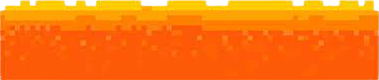
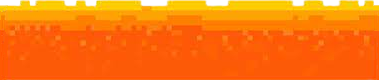
lava tiling and camera moves up

diff --git a/Sinkhole Sprinter/Sinkhole Sprinter/Sinkhole_Sprinter/Game1.cs b/Sinkhole Sprinter/Sinkhole Sprinter/Sinkhole_Sprinter/Game1.cs
@@ -78,7 +78,11 @@ namespace Sinkhole_Sprinter
 
         // lava and fire
         Texture2D Lava, firesheet, exclamation;
-        Lava lava;
+        Rectangle lavaSize;
+        float lavaHeight;
+        const float LAVA_RISE_SPEED = .4f;
+        List<Lava> lavas;
+        const int LAVA_HEIGHT_SHOWN = 200;
 
 
         public Game1()
@@ -121,8 +125,11 @@ namespace Sinkhole_Sprinter
             IsMouseVisible = true;
             currentState = Gamestate.title;
             platforms = new List<Platform>();
+            lavas = new List<Lava>();
+            lavaSize = new Rectangle(0, 0, 1500, 300);
             oldKb = Keyboard.GetState();
             highScores = new List<int>();
+
 
             deathScreenText = new Rectangle[5];
             base.Initialize();
@@ -151,8 +158,8 @@ namespace Sinkhole_Sprinter
             scoreFont = Content.Load<SpriteFont>("ScoreFont");
             titleRect = new Rectangle((int)(GraphicsDevice.Viewport.Width / 2 - (titleFont.MeasureString(titleScreenText[0]).Length() / 2)), 200, 30, 30);
             multiplayerTextRect = new Rectangle((int)(GraphicsDevice.Viewport.Width / 2 - (titleFont.MeasureString(titleScreenText[1]).Length() / 2)), 300, 30, 30);
-            deathScreenText[0] = new Rectangle((int)(GraphicsDevice.Viewport.Width / 2 - (titleFont.MeasureString("play again").Length() / 2)), 250, 30, 30);
-            deathScreenText[1] = new Rectangle((int)(GraphicsDevice.Viewport.Width / 2 - (titleFont.MeasureString("main menu").Length() / 2)), 350, 30, 30);
+            deathScreenText[0] = new Rectangle((int)(GraphicsDevice.Viewport.Width / 2 - (titleFont.MeasureString(gameoverScreenText[0]).Length() / 2)), 250, 30, 30);
+            deathScreenText[1] = new Rectangle((int)(GraphicsDevice.Viewport.Width / 2 - (titleFont.MeasureString(gameoverScreenText[1]).Length() / 2)), 350, 30, 30);
 
             testFont = Content.Load<SpriteFont>("SpriteFont3");
 
@@ -161,7 +168,7 @@ namespace Sinkhole_Sprinter
 
             firesheet = this.Content.Load<Texture2D>("Fire");
             Lava = this.Content.Load<Texture2D>("Lava");
-            lava = new Lava(new Rectangle(600, 700, 1500, 300), Lava);
+            
             exclamation = this.Content.Load<Texture2D>("exclamation");
 
         }
@@ -237,21 +244,29 @@ namespace Sinkhole_Sprinter
 
                     player.Update();
                     camera.Update();
-                    lava.Update();
+                    lavaHeight -= LAVA_RISE_SPEED;
+                    tileLava();
+                    foreach (Lava lava in lavas)
+                    {
+                        lava.position.Y = lavaHeight + lavaSize.Height / 2;
+                    }
+                    
                     if (LastPlatform.position.X < camera.boundingRectangle.Right)
                     {
                         createPlatform();
                     }
+                    if (platforms[0].Top - PLATFORM_MIN_HEIGHT > lavaHeight)
+                        platforms.RemoveAt(0);
+
                     camera.position.X = Math.Max(player.position.X, camera.boundingRectangle.Width / 2);
-                    camera.position.Y = Math.Min(player.position.Y, camera.boundingRectangle.Height / 2);
-                    if (player.position.Y >= lava.Top) // checks if player is dead
+                    camera.position.Y = Math.Min(Math.Min(player.position.Y, camera.boundingRectangle.Height / 2), lavas[0].Top + LAVA_HEIGHT_SHOWN - camera.boundingRectangle.Height / 2);
+                    if (player.position.Y >= lavas[0].Top) // checks if player is dead
                     {
                         onDeath();
                     }
-                    camera.position.Y = Math.Min(player.position.Y, camera.boundingRectangle.Height / 2); // Add lava to minimum
 
                     // TODO: Change to tiling system
-                    lava.position.X = camera.position.X;
+                    //lava.position.X = camera.position.X;
 
                     // Update stats
                     maxHeight = Math.Max(STARTING_PLATFORM_HEIGHT - Platform.HEIGHT / 2 - player.Bottom, maxHeight);
@@ -269,7 +284,7 @@ namespace Sinkhole_Sprinter
                         startGame();
                     }
                     if (mouse.X > deathScreenText[0].X &&
-                        mouse.X < deathScreenText[0].X + (("play again".Length - 1) * 20) && mouse.Y > deathScreenText[0].Y + 10 &&    mouse.Y < deathScreenText[0].Y + deathScreenText[0].Height)
+                        mouse.X < deathScreenText[0].X + ((gameoverScreenText[0].Length - 1) * 20) && mouse.Y > deathScreenText[0].Y + 10 &&    mouse.Y < deathScreenText[0].Y + deathScreenText[0].Height)
                     {
                         deathScreenColors[0] = Color.Gold;
                         if (mouse.LeftButton == ButtonState.Pressed && oldMouse.LeftButton == ButtonState.Released)
@@ -279,7 +294,7 @@ namespace Sinkhole_Sprinter
                     }
                     else
                         deathScreenColors[0] = Color.Black;
-                    if (mouse.X > deathScreenText[1].X && mouse.X < deathScreenText[1].X + (("main menu".Length - 1) * 20) && mouse.Y > deathScreenText[1].Y + 10 && mouse.Y < deathScreenText[1].Y + deathScreenText[1].Height)
+                    if (mouse.X > deathScreenText[1].X && mouse.X < deathScreenText[1].X + ((gameoverScreenText[1].Length - 1) * 20) && mouse.Y > deathScreenText[1].Y + 10 && mouse.Y < deathScreenText[1].Y + deathScreenText[1].Height)
                     {
                         deathScreenColors[1] = Color.Gold;
                         if (mouse.LeftButton == ButtonState.Pressed && oldMouse.LeftButton == ButtonState.Released)
@@ -304,11 +319,26 @@ namespace Sinkhole_Sprinter
             currentState = Gamestate.play;
             createPlatform(new Vector2(Platform.WIDTH / 2, STARTING_PLATFORM_HEIGHT));
             player = new Player(new Rectangle(50, STARTING_PLATFORM_HEIGHT - Platform.HEIGHT / 2 - 38, 75, 75), textures, running, jumping, standing);
-            lava = new Lava(new Rectangle(600, 700, 1500, 300), Lava);
+            lavas.Clear();
+            lavaHeight = GraphicsDevice.Viewport.Height;
+            lavas.Add(new Lava(new Rectangle(lavaSize.Width / 2, (int)lavaHeight + 150, lavaSize.Width, lavaSize.Height), Lava));
             maxHeight = 0;
             distance = 0;
             points = 0;
             timer = 0;
+        }
+
+        private void tileLava()
+        {
+            if (lavas[0].Right + lavaSize.Width < camera.boundingRectangle.Left)
+                lavas.RemoveAt(0);
+            else
+                lavas.Insert(0, new Lava(new Rectangle((int)lavas[0].position.X + lavaSize.Width, (int)lavas[0].position.Y, lavaSize.Width, lavaSize.Height), Lava));
+
+            if (lavas[lavas.Count - 1].Left - lavaSize.Width > camera.boundingRectangle.Right)
+                lavas.RemoveAt(lavas.Count - 1);
+            else
+                lavas.Add(new Lava(new Rectangle((int)lavas[0].position.X + lavaSize.Width, (int)lavas[0].position.Y, lavaSize.Width, lavaSize.Height), Lava));
         }
 
         // Ran when the player dies
@@ -328,7 +358,7 @@ namespace Sinkhole_Sprinter
             int avgGain = PLATFORM_HEIGHT_GAIN + (int)(PLATFORM_EXTRA_HEIGHT_GAIN * Math.Pow(.5, LastPlatform.position.X / PLATFORM_DIFFICULTY_DISTANCE));
             int dHeight = r.Next(-(avgGain + PLATFORM_HEIGHT_VARIANCE), -(avgGain - PLATFORM_HEIGHT_VARIANCE));
             Vector2 position = new Vector2();
-            position.Y = Math.Min(LastPlatform.position.Y + dHeight, lava.Top - PLATFORM_MIN_HEIGHT);
+            position.Y = Math.Min(LastPlatform.position.Y + dHeight, lavas[0].Top - PLATFORM_MIN_HEIGHT);
 
             // Fraction of the max jump distance based on difficulty (max distance)
             float reverseDistanceModifier = (float)(PLATFORM_MIN_WIGGLE_ROOM + PLATFORM_BONUS_WIGGLE_ROOM * Math.Pow(.5, LastPlatform.position.X / PLATFORM_DIFFICULTY_DISTANCE));
@@ -354,8 +384,8 @@ namespace Sinkhole_Sprinter
             {
                 case Gamestate.title:
                     spriteBatch.DrawString(titleTextFont, "SINKHOLE SPRINTER", new Vector2(GraphicsDevice.Viewport.Width / 2  - (titleTextFont.MeasureString("SINKHOLE SPRINTER").Length() / 2), 50), Color.Black);
-                    spriteBatch.DrawString(titleFont, "single player", new Vector2(GraphicsDevice.Viewport.Width / 2 - (titleFont.MeasureString("single player").Length() / 2), 200), titleScreenColors[0]);
-                    spriteBatch.DrawString(titleFont, "multiplayer", new Vector2(GraphicsDevice.Viewport.Width / 2 - (titleFont.MeasureString("multiplayer").Length() / 2), 300), titleScreenColors[1]);
+                    spriteBatch.DrawString(titleFont, titleScreenText[0], new Vector2(GraphicsDevice.Viewport.Width / 2 - (titleFont.MeasureString(titleScreenText[0]).Length() / 2), 200), titleScreenColors[0]);
+                    spriteBatch.DrawString(titleFont, titleScreenText[1], new Vector2(GraphicsDevice.Viewport.Width / 2 - (titleFont.MeasureString(titleScreenText[1]).Length() / 2), 300), titleScreenColors[1]);
                     spriteBatch.DrawString(titleFont, "high scores", new Vector2(GraphicsDevice.Viewport.Width / 2 - (titleFont.MeasureString("high scores").Length() / 2), 400), titleScreenColors[2]);
 
 
@@ -363,13 +393,14 @@ namespace Sinkhole_Sprinter
 
                     break;
                 case Gamestate.play:
-                    spriteBatch.Draw(placeholder, new Rectangle(0, lava.rect.Bottom - 5, 1500, Math.Max(GraphicsDevice.Viewport.Height - lava.rect.Bottom + 5, 0)), new Color(255, 79, 9));
-                    camera.Draw(gameTime,spriteBatch,lava);
+                    // spriteBatch.Draw(placeholder, new Rectangle(0, lavas[0].rect.Bottom - 5, 1500, Math.Max(GraphicsDevice.Viewport.Height - lavas[0].rect.Bottom + 5, 0)), new Color(255, 79, 9));
                     foreach (Platform platform in platforms)
                     {
                         camera.Draw(gameTime, spriteBatch, platform);
                     }
                     camera.DrawPlayer(gameTime, spriteBatch, player);
+                    foreach (Lava lava in lavas)
+                        camera.Draw(gameTime, spriteBatch, lava);
                     spriteBatch.Draw(placeholder, new Rectangle(00, 0, GraphicsDevice.Viewport.Width, 25), Color.Black);
                     spriteBatch.DrawString(scoreFont, "score: " + score, new Vector2(0, 00), Color.White); // points distance max height
                     spriteBatch.DrawString(scoreFont, "points: " + points, new Vector2(GraphicsDevice.Viewport.Width / 2 -  (scoreFont.MeasureString("points: " + points).Length() / 2), 00), Color.White);
@@ -378,8 +409,8 @@ namespace Sinkhole_Sprinter
                     
                 case Gamestate.gameover:
                     spriteBatch.DrawString(titleTextFont, "you died", new Vector2(GraphicsDevice.Viewport.Width / 2 - (titleTextFont.MeasureString("you died").Length() / 2), 50), Color.DarkRed);
-                    spriteBatch.DrawString(titleFont, "play again", new Vector2(GraphicsDevice.Viewport.Width / 2 - (titleFont.MeasureString("play again").Length() / 2), 250), deathScreenColors[0]);
-                    spriteBatch.DrawString(titleFont, "main menu", new Vector2(GraphicsDevice.Viewport.Width / 2 - (titleFont.MeasureString("main menu").Length() / 2), 350), deathScreenColors[1]);
+                    spriteBatch.DrawString(titleFont, gameoverScreenText[0], new Vector2(GraphicsDevice.Viewport.Width / 2 - (titleFont.MeasureString(gameoverScreenText[0]).Length() / 2), 250), deathScreenColors[0]);
+                    spriteBatch.DrawString(titleFont, gameoverScreenText[1], new Vector2(GraphicsDevice.Viewport.Width / 2 - (titleFont.MeasureString(gameoverScreenText[1]).Length() / 2), 350), deathScreenColors[1]);
                     spriteBatch.DrawString(titleFont, "press r to play again", new Vector2(GraphicsDevice.Viewport.Width / 2 - (titleFont.MeasureString("press r to play again").Length() / 2), 450), Color.Gold);
                     break;
             }

diff --git a/Sinkhole Sprinter/Sinkhole Sprinter/Sinkhole_Sprinter/Player.cs b/Sinkhole Sprinter/Sinkhole Sprinter/Sinkhole_Sprinter/Player.cs
@@ -25,6 +25,7 @@ namespace Sinkhole_Sprinter
         public Rectangle currentsource;
         // If player is moving
         public movement playerState;
+        public direction moveDirection;
         // Frame of animation
         private int currentInt;
         // Timer for animation
@@ -41,8 +42,13 @@ namespace Sinkhole_Sprinter
         public enum movement
         {
             idle,
-            left,
-            right
+            running,
+            jumping
+        }
+
+        public enum direction
+        {
+            left, right
         }
 
         
@@ -54,6 +60,7 @@ namespace Sinkhole_Sprinter
             currentsource = st[0];
             standing = st;
             playerState = movement.idle;
+            moveDirection = direction.right;
             currentInt = 0;
             canJump = true;
             timer = 0;
@@ -71,7 +78,8 @@ namespace Sinkhole_Sprinter
             currentsource = st[0];
             standing = st;
             // playerState = movement.idle;
-            playerState = movement.right;
+            playerState = movement.idle;
+            moveDirection = direction.right;
             currentInt = 0;
             canJump = true;
             timer = 0;
@@ -106,7 +114,8 @@ namespace Sinkhole_Sprinter
 
                     currentsource = running[currentInt];
                 }
-                playerState = movement.left;
+                playerState = movement.running;
+                moveDirection = direction.left;
             }
             else if (kb.IsKeyDown(Keys.D) || kb.IsKeyDown(Keys.Right))
             {
@@ -117,7 +126,8 @@ namespace Sinkhole_Sprinter
 
                     currentsource = running[currentInt];
                 }
-                playerState = movement.right;
+                playerState = movement.running;
+                moveDirection = direction.right;
             }
             else
             {

diff --git a/Sinkhole Sprinter/Sinkhole Sprinter/Sinkhole_Sprinter/Camera.cs b/Sinkhole Sprinter/Sinkhole Sprinter/Sinkhole_Sprinter/Camera.cs
@@ -69,8 +69,14 @@ namespace Sinkhole_Sprinter
         {
             SpriteEffects flip = SpriteEffects.None;
 
-            if (player.playerState == Player.movement.right)
+            if (player.moveDirection == Player.direction.right && player.playerState != Player.movement.idle)
+            {
                 flip = SpriteEffects.FlipHorizontally;
+            }
+            else if (player.moveDirection == Player.direction.left && player.playerState == Player.movement.idle)
+            {
+                flip = SpriteEffects.FlipHorizontally;
+            }
 
             player.rect.X = (int)(player.position.X - player.rect.Width / 2 - position.X + boundingRectangle.Width / 2);
             player.rect.Y = (int)(player.position.Y - player.rect.Height / 2 - position.Y + boundingRectangle.Height / 2);

diff --git a/Sinkhole Sprinter/Sinkhole Sprinter/Sinkhole_Sprinter/Lava.cs b/Sinkhole Sprinter/Sinkhole Sprinter/Sinkhole_Sprinter/Lava.cs
@@ -12,19 +12,20 @@ namespace Sinkhole_Sprinter
 {
     class Lava : Sprite
     {
-        int timer = 0;
+        // const int RISE_DELAY = 3;
+        // int timer = 0;
         public Lava(Rectangle rect, Texture2D texture) : base(rect, texture)
         {
 
         }
-        public void Update()
-        {
-            timer++;
-            if (timer % 5 == 0)
-            {
-                position.Y--;
-            }
-        }
+        //public void Update()
+        //{
+        //    timer++;
+        //    if (timer % RISE_DELAY == 0)
+        //    {
+        //        position.Y--;
+        //    }
+        //}
     }
 }
 
